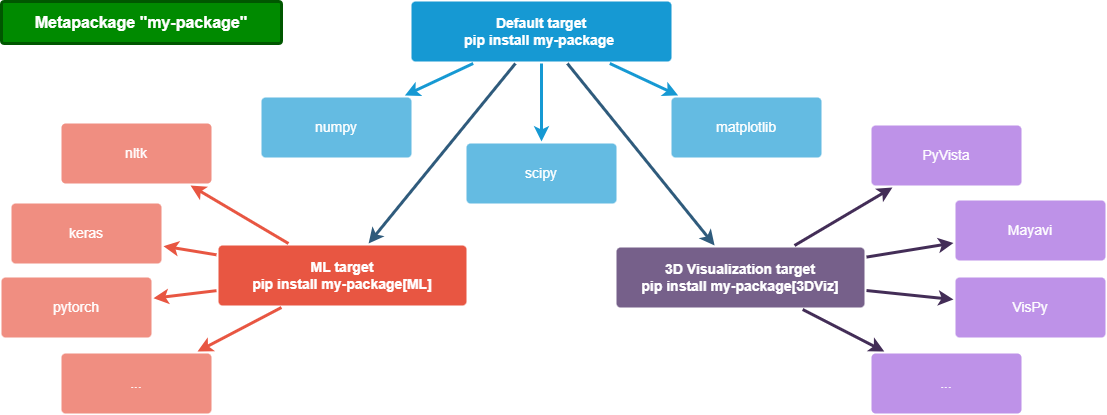
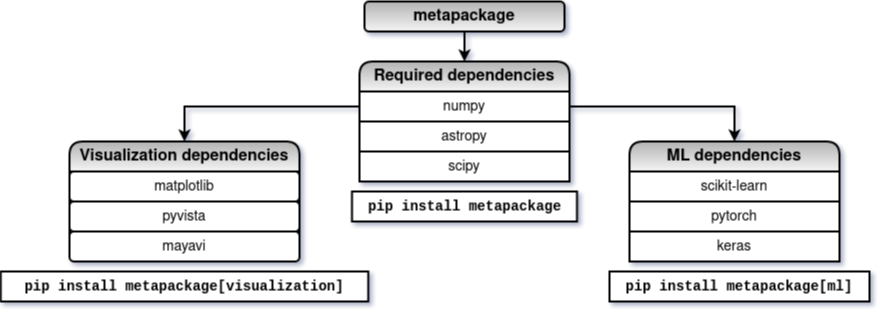
FEAT: enhance images

diff --git a/src/metapackage.tex b/src/metapackage.tex
@@ -18,7 +18,7 @@
 \textbf{Metapackage structure}\\
 \fontsize{75}{77}\selectfont % Set the font size to 12pt with a baseline skip of 14pt
 
-Targets\\[1.5cm]
+Required and extra dependencies groups\\[1.5cm]
 \includegraphics[width=\textwidth]{img/metapackage/deps}\\
 
 File structure\\[1.5cm]
